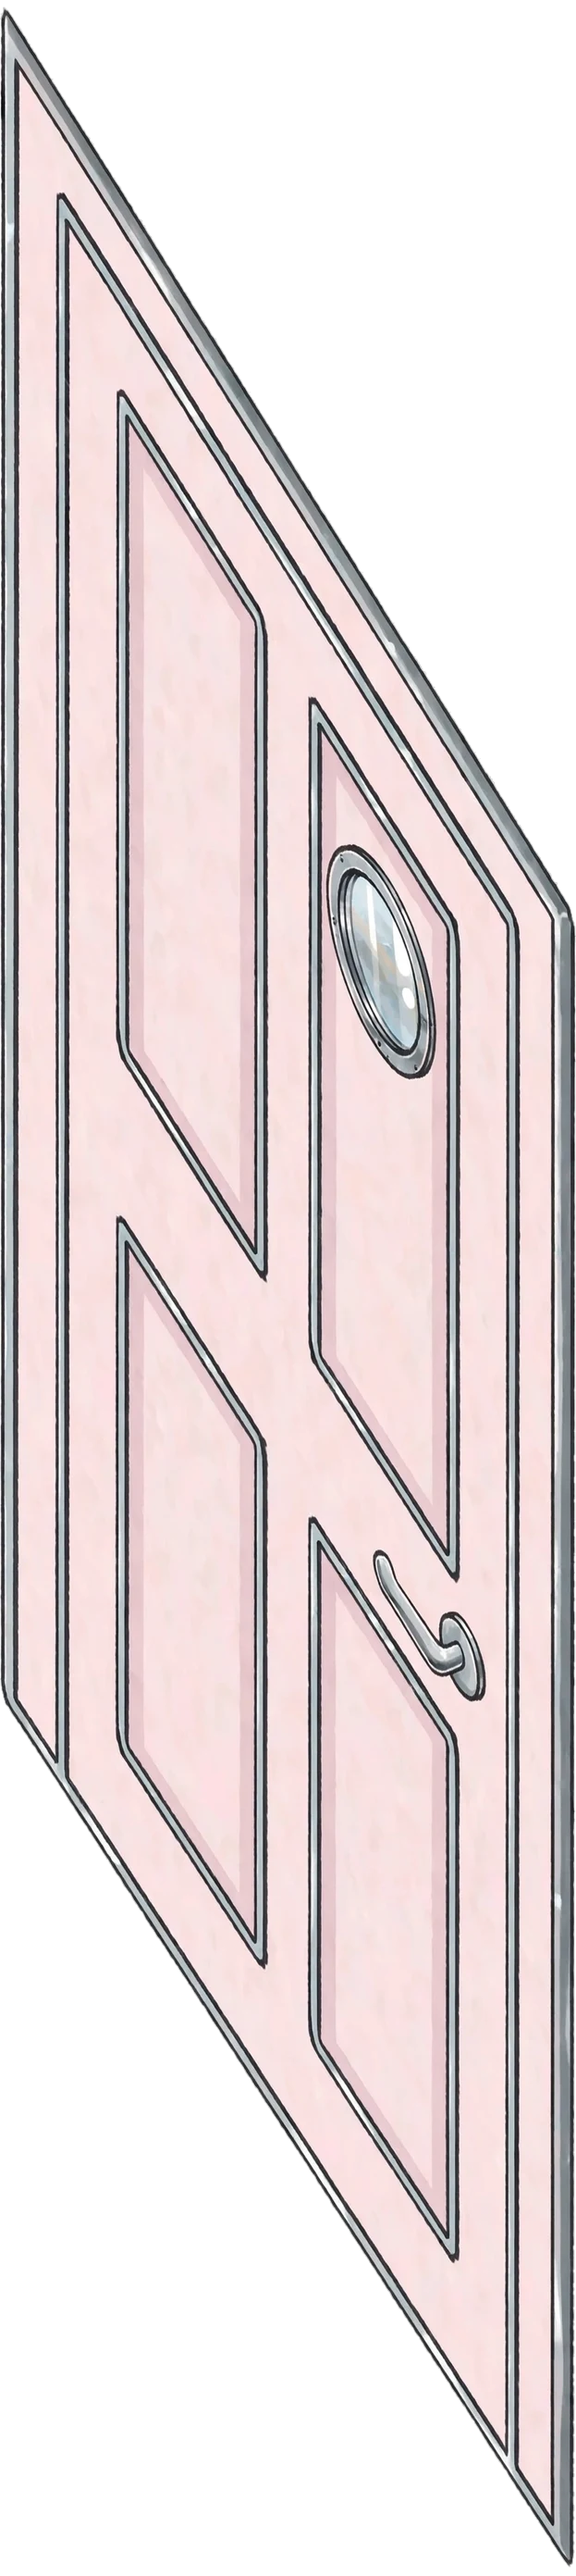
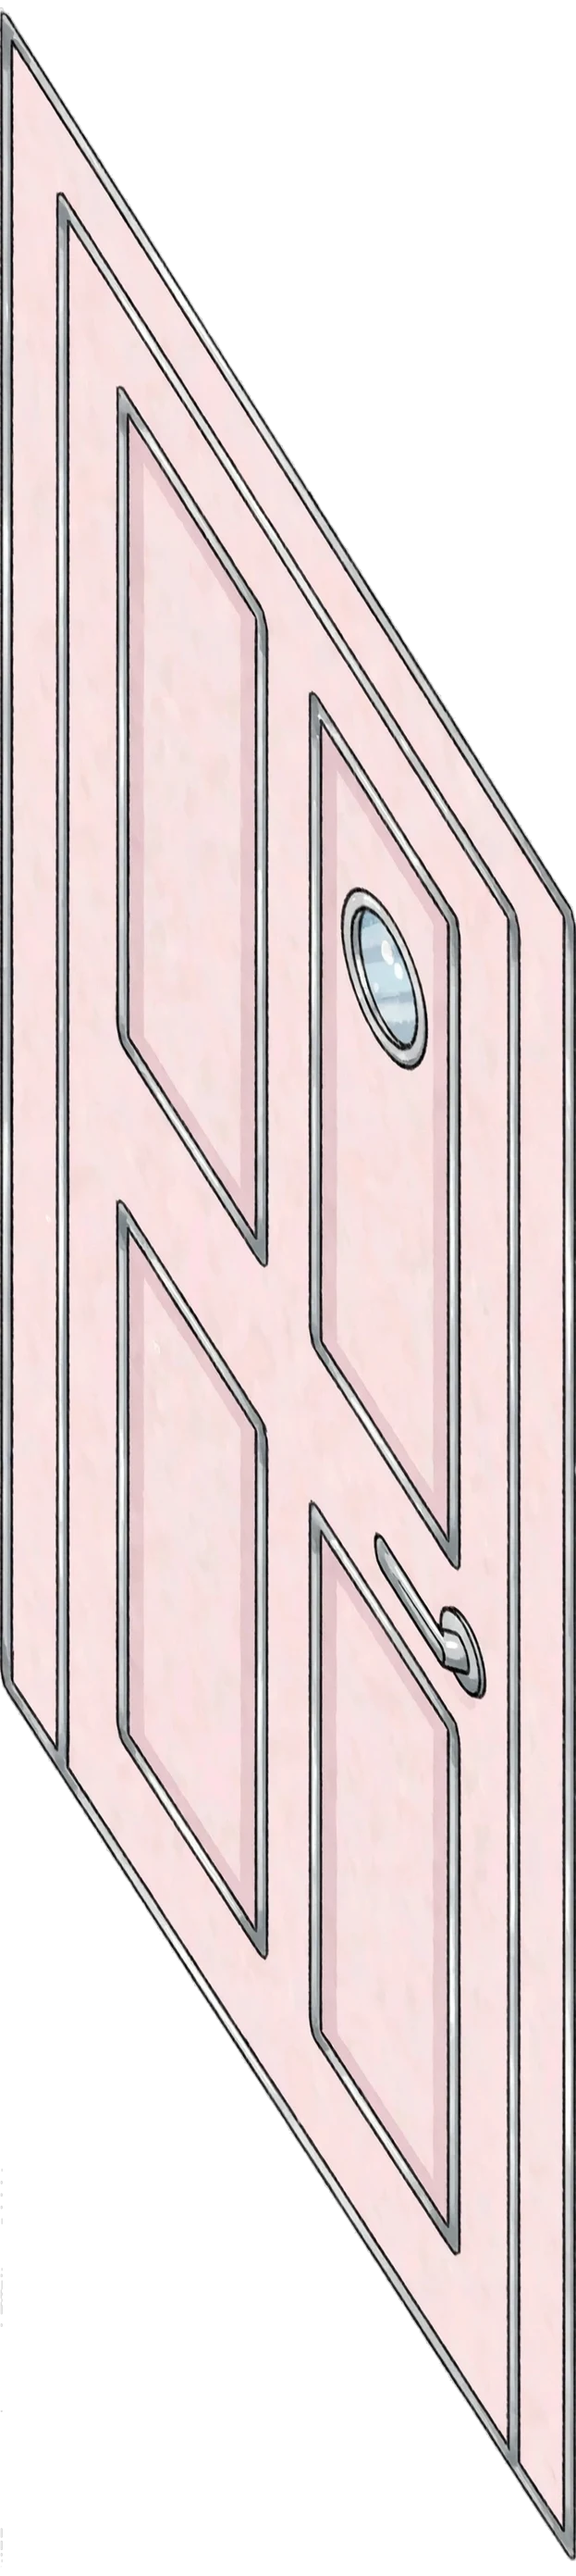
preview-diner 棚の作り直し：ケース風オブジェクト廃止→クローム額のプレートに統一、おすすめ先頭を大判+ガラスドーム、棚は2点並びに／部屋ドアは遠近のある絵で生成し直し／置き場の戻りドアをEXITバー化＋開閉アニメ

Changed region(s): [[0.0, 0.0, 1.0, 1.0]]

diff --git a/preview-diner/index.html b/preview-diner/index.html
@@ -865,6 +865,26 @@ background:repeating-conic-gradient(var(--dn-pink-soft) 0% 25%, #fff 0% 50%) 0 0
 #storageView .work img{border-radius:10px; border:1px solid #F1DCE6; box-shadow:0 3px 8px rgba(43,36,48,.12)}
 
 #storageView .wdate{white-space:nowrap; font-size:11px; font-family:"Barlow Condensed",sans-serif; letter-spacing:.04em}
+
+/* ===== showcase rebuild: flat plates, big featured, exit door bar ===== */
+#storageView .shelf-items{background:transparent; border:none; padding:14px 4px 2px}
+#storageView .work{background:#fff; border:1px solid #F3DCE8; border-radius:16px; padding:9px 9px 11px; box-shadow:0 3px 9px rgba(43,36,48,.08); width:45%}
+#storageView .obj3d{box-shadow:none; background:none}
+#storageView .obj3d::before, #storageView .obj3d::after{display:none !important}
+#storageView .obj3d .cover{background:transparent; border-radius:12px}
+#storageView .obj3d .cover img{border-radius:12px; border:2px solid #C9D2D9; outline:1px solid rgba(154,167,177,.6); box-shadow:0 4px 10px rgba(43,36,48,.13)}
+#storageView .disc{display:none}
+#storageView .work .cheer{margin-top:9px}
+#storageView .work.big{width:94%; position:relative}
+#storageView .work.big .cover img{aspect-ratio:16/10}
+#storageView .work.big .dome{position:absolute; left:50%; top:-4px; transform:translateX(-50%); width:78%; z-index:4; pointer-events:none; filter:drop-shadow(0 6px 8px rgba(43,36,48,.18))}
+#storageView .feat-shelf .shelf-items{justify-content:center}
+#storageDoor{left:50%; bottom:12px; transform:translateX(-50%); width:auto; display:flex; align-items:center; gap:9px; background:#33262E; border:2px solid #C9D2D9; border-radius:999px; padding:7px 18px 7px 12px; box-shadow:0 6px 16px rgba(43,36,48,.3); z-index:5}
+#storageDoor:active{transform:translateX(-50%) scale(.95)}
+#storageDoor img{width:20px}
+#storageDoor .cap{position:static; transform:none; color:#FFF6EC; font-size:12px}
+#storageDoor.leaving img{animation:doorSwing .32s ease-in-out 2; transform-origin:left center}
+@keyframes doorSwing{0%,100%{transform:rotateY(0)}50%{transform:rotateY(-58deg)}}
 </style>
 </head>
 <body>
@@ -1901,7 +1921,7 @@ var CAT_ORDER = ['game', 'music', 'site'];
 var KIND_TO_CAT = {'ゲーム':'game', '曲・MV':'music', '曲':'music', 'サイト':'site'};
 function catOf(w){ return w.cat || KIND_TO_CAT[w.kind] || 'game'; }
 var CAT_FORM = {game:'game', music:'cd', site:'book'};
-function workHTML(w){
+function workHTML(w, big){
 var cat = catOf(w);
 var form = CAT_FORM[cat] || 'game';
 var face = w.img
@@ -1911,21 +1931,35 @@ var disc = cat === 'music' ? '<span class="disc" aria-hidden="true"></span>' : '
 var cheer = w.id ? '<button type="button" class="cheer" data-cheer="' + w.id + '" aria-label="' + w.title + 'を応援する"><span class="c-heart" aria-hidden="true">♥</span>応援<span class="cheer-n">…</span></button>' : '';
 var badge = '';
 var wdate = w.date ? '<span class="wdate">' + w.date.replace(/-/g,'.') + ' 公開</span>' : '';
-return '<div class="work">'
+return '<div class="work' + (big ? ' big' : '') + '">'
 + '<a class="wlink" href="' + w.href + '" target="_blank" rel="noopener" aria-label="' + w.title + '">'
 + '<span class="obj3d o-' + form + '">' + disc + '<span class="cover">' + face + '</span></span>' + badge
++ (big ? '<img class="dome" src="diner-img/dome.webp" alt="" aria-hidden="true">' : '')
 + '<span class="wttl">' + w.title + '</span>'
 + '<span class="wtag"><span class="tag ' + w.tag + '">' + w.kind + '</span></span>' + wdate + '</a>'
 + cheer + '</div>';
 }
 function shelvesHTML(list){
 var html = '';
-for (var i = 0; i < list.length; i += 3){
+for (var i = 0; i < list.length; i += 2){
 html += '<div class="shelf"><div class="shelf-items">'
-+ list.slice(i, i + 3).map(workHTML).join('')
++ list.slice(i, i + 2).map(function(w){ return workHTML(w); }).join('')
 + '</div><div class="shelf-board"></div></div>';
 }
 return html;
+}
+function featHTML(list){
+var sorted = list.slice().sort(function(a, b){
+var da = a.date || '', db = b.date || '';
+if (da && db) return da < db ? 1 : -1;
+if (da) return -1;
+if (db) return 1;
+return 0;
+});
+var html = '<div class="storage-sec"><div class="sec-head"><b>おすすめ</b></div>';
+html += '<div class="shelf feat-shelf"><div class="shelf-items">' + workHTML(sorted[0], true) + '</div><div class="shelf-board"></div></div>';
+if (sorted.length > 1) html += shelvesHTML(sorted.slice(1));
+return html + '</div>';
 }
 function sectionHTML(label, list){
 return '<div class="storage-sec"><div class="sec-head">' + label + '</div>' + shelvesHTML(list) + '</div>';
@@ -1959,7 +1993,7 @@ function renderStorage(){
 var html = '';
 if (curCat === 'all'){
 var feat = WORKS.filter(function(w){ return w.featured; });
-if (feat.length) html += sectionHTML('<b>おすすめ</b>', feat);
+if (feat.length) html += featHTML(feat);
 html += sectionHTML('<b>最新</b>', latestWorks());
 html += sectionHTML('ぜんぶの作品', WORKS);
 html += '<p class="bonus-next">最終更新 2026.11.23｜新作2本追加</p>';
@@ -2009,6 +2043,10 @@ showStorage();
 /* プロフィールの「作品置き場へ」：パネルを閉じて置き場へ（遷移は hash 連動 syncFromHash に任せる） */
 document.getElementById('profWorks').addEventListener('click', function(){ goStorage(); });
 document.getElementById('storageDoor').addEventListener('click', function(){
+var d = this;
+if (d.classList.contains('leaving')) return;
+d.classList.add('leaving');
+setTimeout(function(){ d.classList.remove('leaving'); }, 700);
 if (pushedStorage){
 pushedStorage = false;
 history.back();
